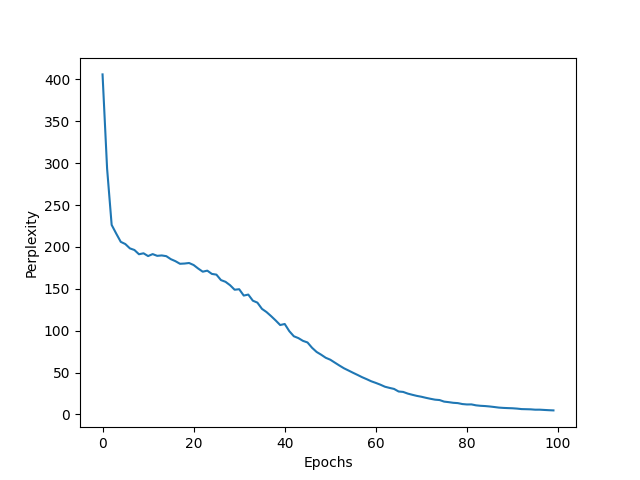
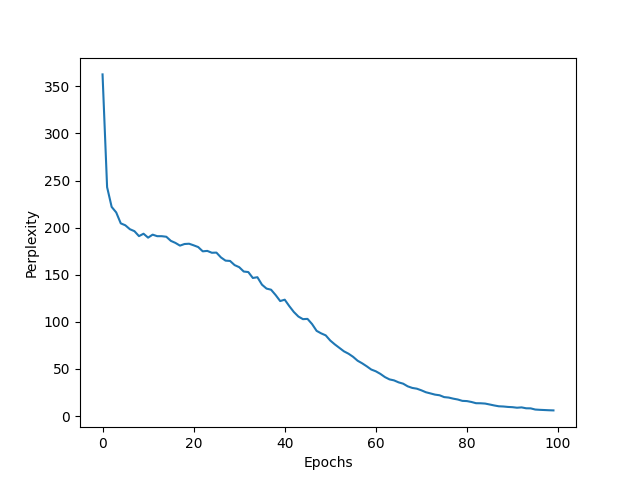
Update train4

diff --git a/train/train4.py b/train/train4.py
@@ -3,6 +3,7 @@ import matplotlib.pyplot as plt
 import sys
 sys.path.append("../lib")
 sys.path.append("../lib/concerns")
+sys.path.append("../lib/layers")
 sys.path.append("../lib/optimisers")
 from simple_rnnlm import SimpleRNNLM
 from ptb import *
@@ -74,103 +75,103 @@ file_path = "../img/rnnlm.png"
 plt.savefig(file_path)
 
 # Corpus size: 1000, Vocabulary size: 418
-# Epoch 1 | Perplexity 405.99
-# Epoch 2 | Perplexity 293.46
-# Epoch 3 | Perplexity 226.30
-# Epoch 4 | Perplexity 215.96
-# Epoch 5 | Perplexity 206.08
-# Epoch 6 | Perplexity 203.45
-# Epoch 7 | Perplexity 198.30
-# Epoch 8 | Perplexity 196.34
-# Epoch 9 | Perplexity 191.28
-# Epoch 10 | Perplexity 192.41
-# Epoch 11 | Perplexity 189.10
-# Epoch 12 | Perplexity 191.44
-# Epoch 13 | Perplexity 189.38
-# Epoch 14 | Perplexity 189.85
-# Epoch 15 | Perplexity 188.98
-# Epoch 16 | Perplexity 185.39
-# Epoch 17 | Perplexity 183.00
-# Epoch 18 | Perplexity 179.89
-# Epoch 19 | Perplexity 180.18
-# Epoch 20 | Perplexity 180.83
-# Epoch 21 | Perplexity 178.40
-# Epoch 22 | Perplexity 174.20
-# Epoch 23 | Perplexity 170.44
-# Epoch 24 | Perplexity 171.69
-# Epoch 25 | Perplexity 167.81
-# Epoch 26 | Perplexity 166.93
-# Epoch 27 | Perplexity 160.43
-# Epoch 28 | Perplexity 158.36
-# Epoch 29 | Perplexity 154.30
-# Epoch 30 | Perplexity 148.91
-# Epoch 31 | Perplexity 149.51
-# Epoch 32 | Perplexity 141.94
-# Epoch 33 | Perplexity 143.12
-# Epoch 34 | Perplexity 135.83
-# Epoch 35 | Perplexity 133.50
-# Epoch 36 | Perplexity 126.06
-# Epoch 37 | Perplexity 122.26
-# Epoch 38 | Perplexity 117.44
-# Epoch 39 | Perplexity 112.28
-# Epoch 40 | Perplexity 106.76
-# Epoch 41 | Perplexity 108.00
-# Epoch 42 | Perplexity 99.46
-# Epoch 43 | Perplexity 93.35
-# Epoch 44 | Perplexity 91.16
-# Epoch 45 | Perplexity 87.87
-# Epoch 46 | Perplexity 85.95
-# Epoch 47 | Perplexity 79.60
-# Epoch 48 | Perplexity 74.62
-# Epoch 49 | Perplexity 71.33
-# Epoch 50 | Perplexity 67.68
-# Epoch 51 | Perplexity 65.37
-# Epoch 52 | Perplexity 61.88
-# Epoch 53 | Perplexity 58.44
-# Epoch 54 | Perplexity 55.14
-# Epoch 55 | Perplexity 52.47
-# Epoch 56 | Perplexity 49.75
-# Epoch 57 | Perplexity 47.16
-# Epoch 58 | Perplexity 44.46
-# Epoch 59 | Perplexity 42.10
-# Epoch 60 | Perplexity 39.59
-# Epoch 61 | Perplexity 37.65
-# Epoch 62 | Perplexity 35.54
-# Epoch 63 | Perplexity 33.11
-# Epoch 64 | Perplexity 31.72
-# Epoch 65 | Perplexity 30.48
-# Epoch 66 | Perplexity 27.42
-# Epoch 67 | Perplexity 26.90
-# Epoch 68 | Perplexity 24.93
-# Epoch 69 | Perplexity 23.50
-# Epoch 70 | Perplexity 22.17
-# Epoch 71 | Perplexity 21.14
-# Epoch 72 | Perplexity 19.86
-# Epoch 73 | Perplexity 18.71
-# Epoch 74 | Perplexity 17.66
-# Epoch 75 | Perplexity 17.19
-# Epoch 76 | Perplexity 15.32
-# Epoch 77 | Perplexity 14.69
-# Epoch 78 | Perplexity 13.91
-# Epoch 79 | Perplexity 13.54
-# Epoch 80 | Perplexity 12.42
-# Epoch 81 | Perplexity 11.93
-# Epoch 82 | Perplexity 11.99
-# Epoch 83 | Perplexity 10.88
-# Epoch 84 | Perplexity 10.33
-# Epoch 85 | Perplexity 10.02
-# Epoch 86 | Perplexity 9.53
-# Epoch 87 | Perplexity 8.89
-# Epoch 88 | Perplexity 8.19
-# Epoch 89 | Perplexity 7.82
-# Epoch 90 | Perplexity 7.58
-# Epoch 91 | Perplexity 7.38
-# Epoch 92 | Perplexity 6.99
-# Epoch 93 | Perplexity 6.40
-# Epoch 94 | Perplexity 6.26
-# Epoch 95 | Perplexity 6.11
-# Epoch 96 | Perplexity 5.69
-# Epoch 97 | Perplexity 5.70
-# Epoch 98 | Perplexity 5.38
-# Epoch 99 | Perplexity 5.08
-# Epoch 100 | Perplexity 4.84
+# Epoch 1 | Perplexity 362.66
+# Epoch 2 | Perplexity 242.98
+# Epoch 3 | Perplexity 222.03
+# Epoch 4 | Perplexity 216.16
+# Epoch 5 | Perplexity 204.56
+# Epoch 6 | Perplexity 202.51
+# Epoch 7 | Perplexity 198.36
+# Epoch 8 | Perplexity 196.27
+# Epoch 9 | Perplexity 191.01
+# Epoch 10 | Perplexity 193.55
+# Epoch 11 | Perplexity 189.39
+# Epoch 12 | Perplexity 192.58
+# Epoch 13 | Perplexity 190.95
+# Epoch 14 | Perplexity 190.93
+# Epoch 15 | Perplexity 190.34
+# Epoch 16 | Perplexity 185.98
+# Epoch 17 | Perplexity 183.81
+# Epoch 18 | Perplexity 180.93
+# Epoch 19 | Perplexity 182.64
+# Epoch 20 | Perplexity 182.93
+# Epoch 21 | Perplexity 181.26
+# Epoch 22 | Perplexity 179.40
+# Epoch 23 | Perplexity 174.88
+# Epoch 24 | Perplexity 175.32
+# Epoch 25 | Perplexity 173.35
+# Epoch 26 | Perplexity 173.52
+# Epoch 27 | Perplexity 168.39
+# Epoch 28 | Perplexity 165.01
+# Epoch 29 | Perplexity 164.65
+# Epoch 30 | Perplexity 160.24
+# Epoch 31 | Perplexity 158.07
+# Epoch 32 | Perplexity 153.44
+# Epoch 33 | Perplexity 152.86
+# Epoch 34 | Perplexity 146.58
+# Epoch 35 | Perplexity 147.40
+# Epoch 36 | Perplexity 139.49
+# Epoch 37 | Perplexity 135.34
+# Epoch 38 | Perplexity 134.13
+# Epoch 39 | Perplexity 128.48
+# Epoch 40 | Perplexity 122.10
+# Epoch 41 | Perplexity 123.55
+# Epoch 42 | Perplexity 116.74
+# Epoch 43 | Perplexity 110.49
+# Epoch 44 | Perplexity 105.66
+# Epoch 45 | Perplexity 102.88
+# Epoch 46 | Perplexity 103.18
+# Epoch 47 | Perplexity 97.69
+# Epoch 48 | Perplexity 90.46
+# Epoch 49 | Perplexity 87.80
+# Epoch 50 | Perplexity 85.67
+# Epoch 51 | Perplexity 80.17
+# Epoch 52 | Perplexity 76.08
+# Epoch 53 | Perplexity 72.41
+# Epoch 54 | Perplexity 68.73
+# Epoch 55 | Perplexity 66.22
+# Epoch 56 | Perplexity 62.94
+# Epoch 57 | Perplexity 58.77
+# Epoch 58 | Perplexity 56.02
+# Epoch 59 | Perplexity 52.85
+# Epoch 60 | Perplexity 49.42
+# Epoch 61 | Perplexity 47.54
+# Epoch 62 | Perplexity 44.80
+# Epoch 63 | Perplexity 41.40
+# Epoch 64 | Perplexity 38.95
+# Epoch 65 | Perplexity 37.90
+# Epoch 66 | Perplexity 35.80
+# Epoch 67 | Perplexity 34.40
+# Epoch 68 | Perplexity 31.58
+# Epoch 69 | Perplexity 29.90
+# Epoch 70 | Perplexity 29.09
+# Epoch 71 | Perplexity 27.35
+# Epoch 72 | Perplexity 25.29
+# Epoch 73 | Perplexity 24.06
+# Epoch 74 | Perplexity 22.78
+# Epoch 75 | Perplexity 22.10
+# Epoch 76 | Perplexity 20.15
+# Epoch 77 | Perplexity 19.66
+# Epoch 78 | Perplexity 18.51
+# Epoch 79 | Perplexity 17.59
+# Epoch 80 | Perplexity 16.16
+# Epoch 81 | Perplexity 15.92
+# Epoch 82 | Perplexity 14.97
+# Epoch 83 | Perplexity 13.67
+# Epoch 84 | Perplexity 13.61
+# Epoch 85 | Perplexity 13.29
+# Epoch 86 | Perplexity 12.31
+# Epoch 87 | Perplexity 11.28
+# Epoch 88 | Perplexity 10.41
+# Epoch 89 | Perplexity 10.18
+# Epoch 90 | Perplexity 9.72
+# Epoch 91 | Perplexity 9.46
+# Epoch 92 | Perplexity 8.89
+# Epoch 93 | Perplexity 9.24
+# Epoch 94 | Perplexity 8.28
+# Epoch 95 | Perplexity 8.20
+# Epoch 96 | Perplexity 6.96
+# Epoch 97 | Perplexity 6.65
+# Epoch 98 | Perplexity 6.43
+# Epoch 99 | Perplexity 6.20
+# Epoch 100 | Perplexity 6.04
